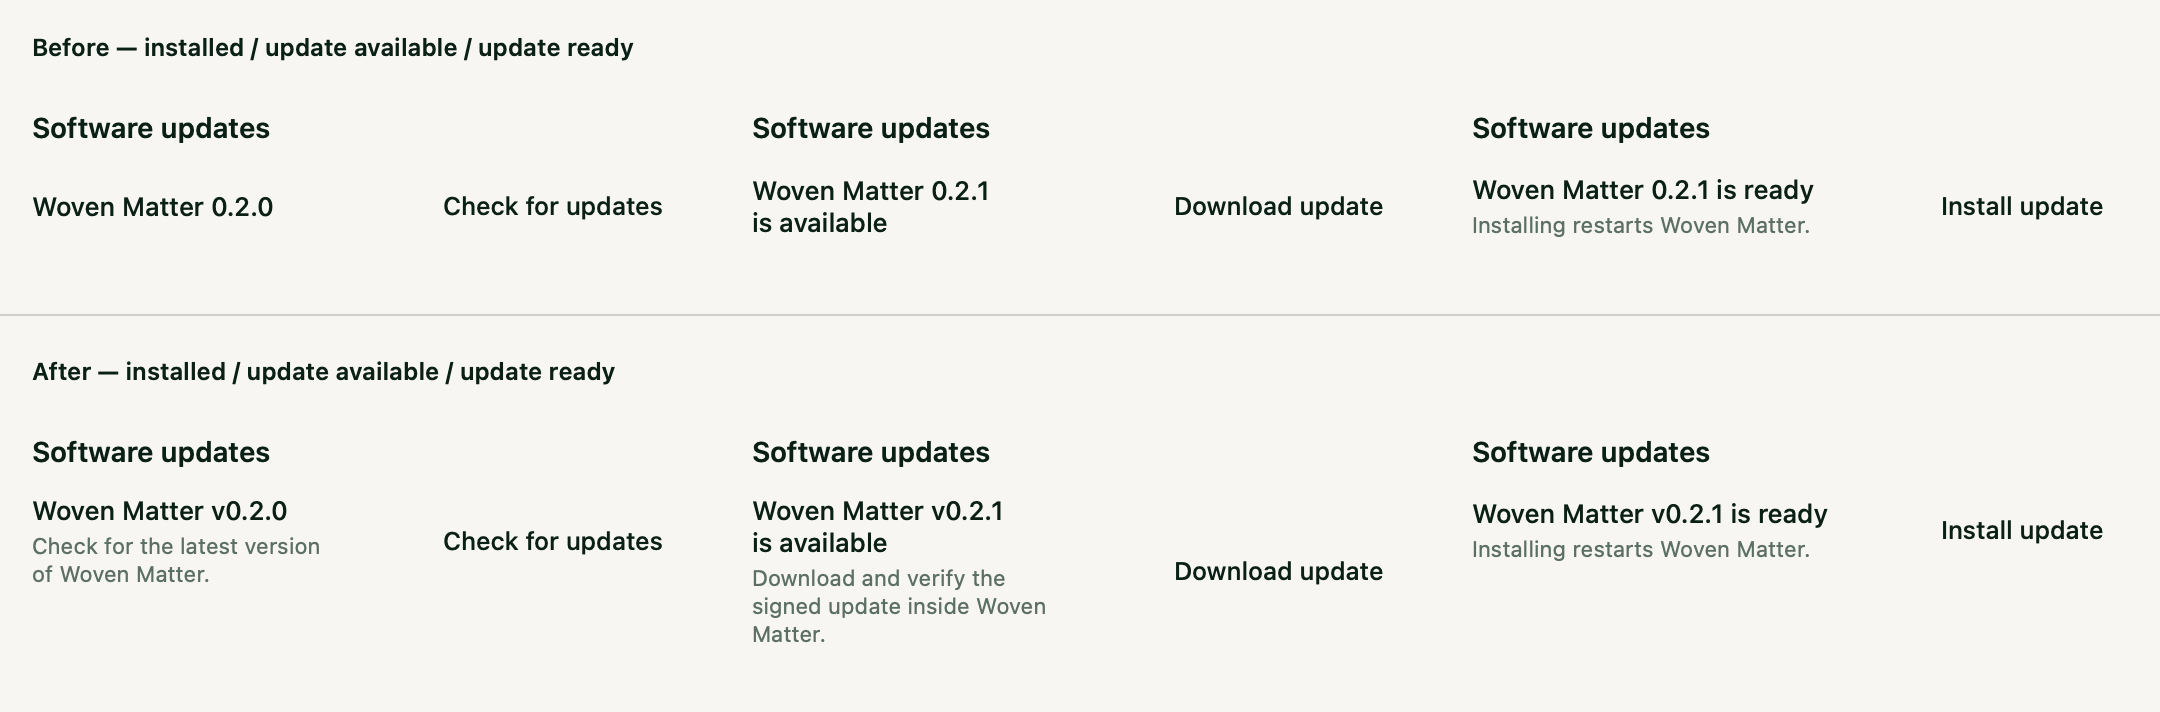
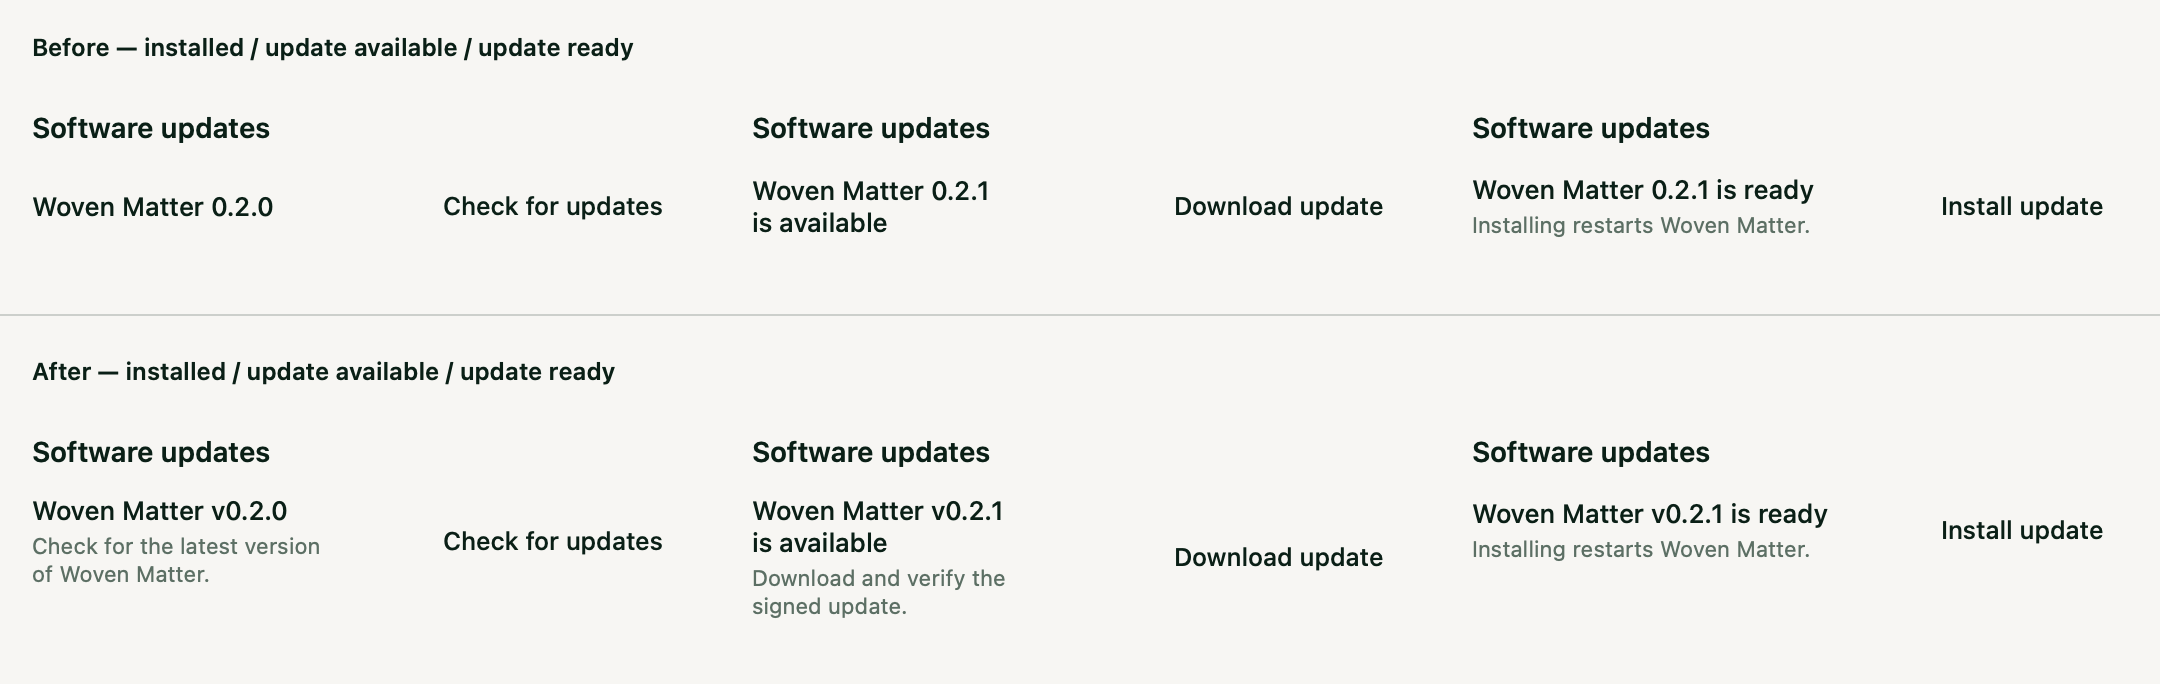
Shorten the available update subtitle

diff --git a/app/App/Views/SettingsGeneralView.swift b/app/App/Views/SettingsGeneralView.swift
@@ -394,7 +394,7 @@ private enum ReleaseUpdateState {
         case .idle: "Check for the latest version of Woven Matter."
         case .checking: "Checking for the latest version of Woven Matter…"
         case .current: "You’re up to date."
-        case .available: "Download and verify the signed update inside Woven Matter."
+        case .available: "Download and verify the signed update."
         case .downloading: "Downloading the update…"
         case .ready: "Installing restarts Woven Matter."
         case .installing: "Woven Matter will restart."
